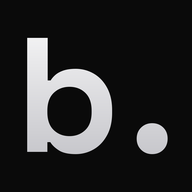
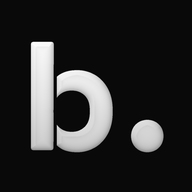
Icona b. in stile Revolut: nero lucido con riflessi sui bordi, asta separata
Claude-Session: https://claude.ai/code/session_01FKbM9EfrvZ7Xuo11NjrBUj

diff --git a/src/sw.js b/src/sw.js
@@ -1,5 +1,5 @@
 // Copia offline dell'app. Cambia VERSIONE a ogni aggiornamento.
-const VERSIONE='budget-v59';
+const VERSIONE='budget-v60';
 const FILES=['./','./index.html','./manifest.webmanifest','./apple-touch-icon.png','./icon-192.png','./icon-512.png','./manifest-scura.webmanifest','./apple-touch-icon-scura.png','./icon-192-scura.png','./icon-512-scura.png'];
 self.addEventListener('install',e=>{e.waitUntil(caches.open(VERSIONE).then(c=>c.addAll(FILES)));self.skipWaiting()});
 self.addEventListener('activate',e=>{e.waitUntil(caches.keys().then(k=>Promise.all(k.filter(n=>n!==VERSIONE).map(n=>caches.delete(n)))).then(()=>self.clients.claim()))});

diff --git a/sw.js b/sw.js
@@ -1,5 +1,5 @@
 // Copia offline dell'app. Cambia VERSIONE a ogni aggiornamento.
-const VERSIONE='budget-v59';
+const VERSIONE='budget-v60';
 const FILES=['./','./index.html','./manifest.webmanifest','./apple-touch-icon.png','./icon-192.png','./icon-512.png','./manifest-scura.webmanifest','./apple-touch-icon-scura.png','./icon-192-scura.png','./icon-512-scura.png'];
 self.addEventListener('install',e=>{e.waitUntil(caches.open(VERSIONE).then(c=>c.addAll(FILES)));self.skipWaiting()});
 self.addEventListener('activate',e=>{e.waitUntil(caches.keys().then(k=>Promise.all(k.filter(n=>n!==VERSIONE).map(n=>caches.delete(n)))).then(()=>self.clients.claim()))});
